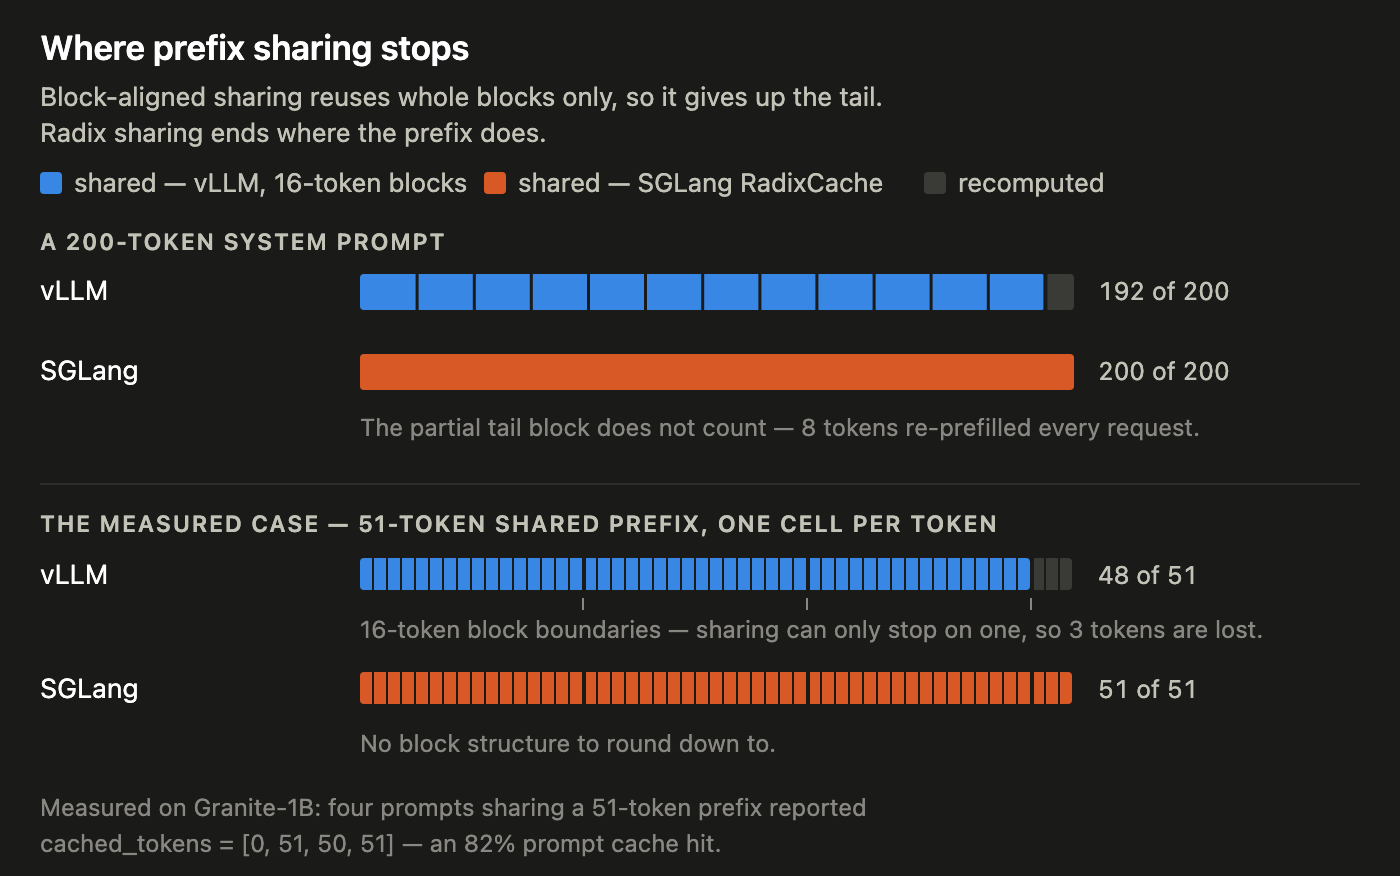
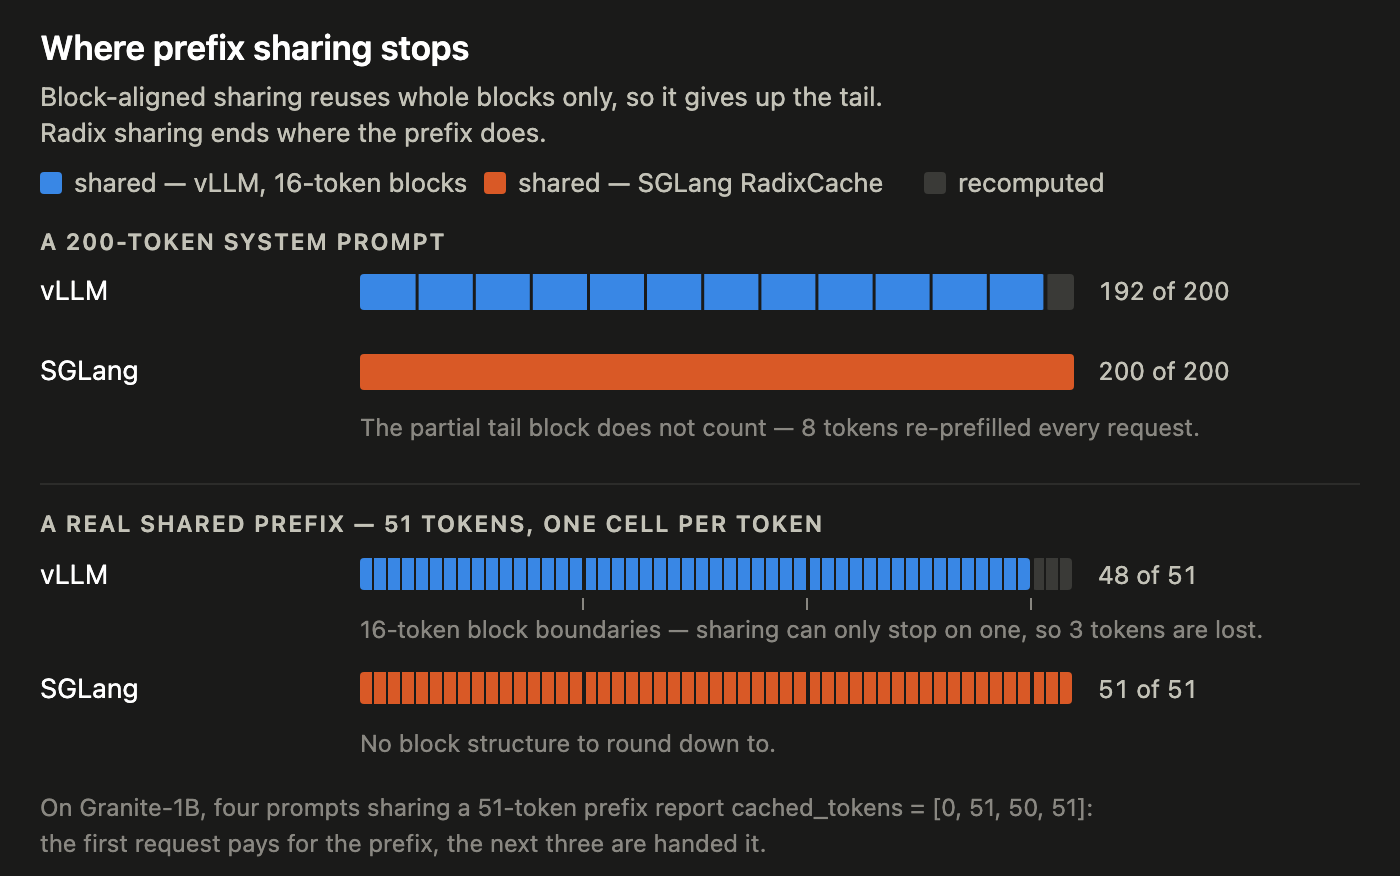
figures: drop the 82% hit rate and the 'measured' framing from figure 2
Removing the percentage from the prose last commit left it embedded in
the figure, which is worse than not fixing it at all — the article and its
own illustration would have disagreed.

The figure now quotes cached_tokens = [0, 51, 50, 51] and describes what
it shows, with nothing derived from it. The panel heading also changes
from 'the measured case' to 'a real shared prefix': this is the one figure
in the post carried from the repo rather than re-measured in the sweep,
so claiming measurement overstated it.

Changed region(s): [[0.0307, 0.8938, 0.645, 0.9863], [0.0307, 0.5856, 0.7064, 0.6164], [0.6757, 0.8938, 0.7679, 0.9247]]

diff --git a/docs/figures/generate.py b/docs/figures/generate.py
@@ -218,8 +218,8 @@ def figure2(theme):
     # ---- panel 2: 51 tokens, one cell each ----
     n2, h2, pitch = 51, 16, 7
     shared2 = (n2 // BLOCK) * BLOCK          # 48
-    o.append('<text class="grp" x="20" y="266">The measured case — 51-token shared '
-             'prefix, one cell per token</text>')
+    o.append('<text class="grp" x="20" y="266">A real shared prefix — 51 tokens, '
+             'one cell per token</text>')
 
     def cells(y, n_shared, cls, n_total):
         # One fill, then surface gaps cut it into per-token cells.
@@ -252,10 +252,14 @@ def figure2(theme):
     o.append(f'<text class="note" x="{SX}" y="376">No block structure to round '
              'down to.</text>')
 
-    o.append('<text class="note" x="20" y="408">Measured on Granite-1B: four prompts '
-             'sharing a 51-token prefix reported</text>')
-    o.append('<text class="note" x="20" y="426">cached_tokens = [0, 51, 50, 51] — an '
-             '82% prompt cache hit.</text>')
+    # No hit-rate percentage here: cached_tokens = [0, 51, 50, 51] is 152 cached
+    # tokens, and four prompts each containing the 51-token prefix total >= 204,
+    # so the repo's "82%" needs its denominator stated. The array is unambiguous
+    # on its own, so the figure quotes that and nothing derived from it.
+    o.append('<text class="note" x="20" y="408">On Granite-1B, four prompts sharing '
+             'a 51-token prefix report cached_tokens = [0, 51, 50, 51]:</text>')
+    o.append('<text class="note" x="20" y="426">the first request pays for the '
+             'prefix, the next three are handed it.</text>')
     o.append("</svg>")
     return "\n".join(o)
 
